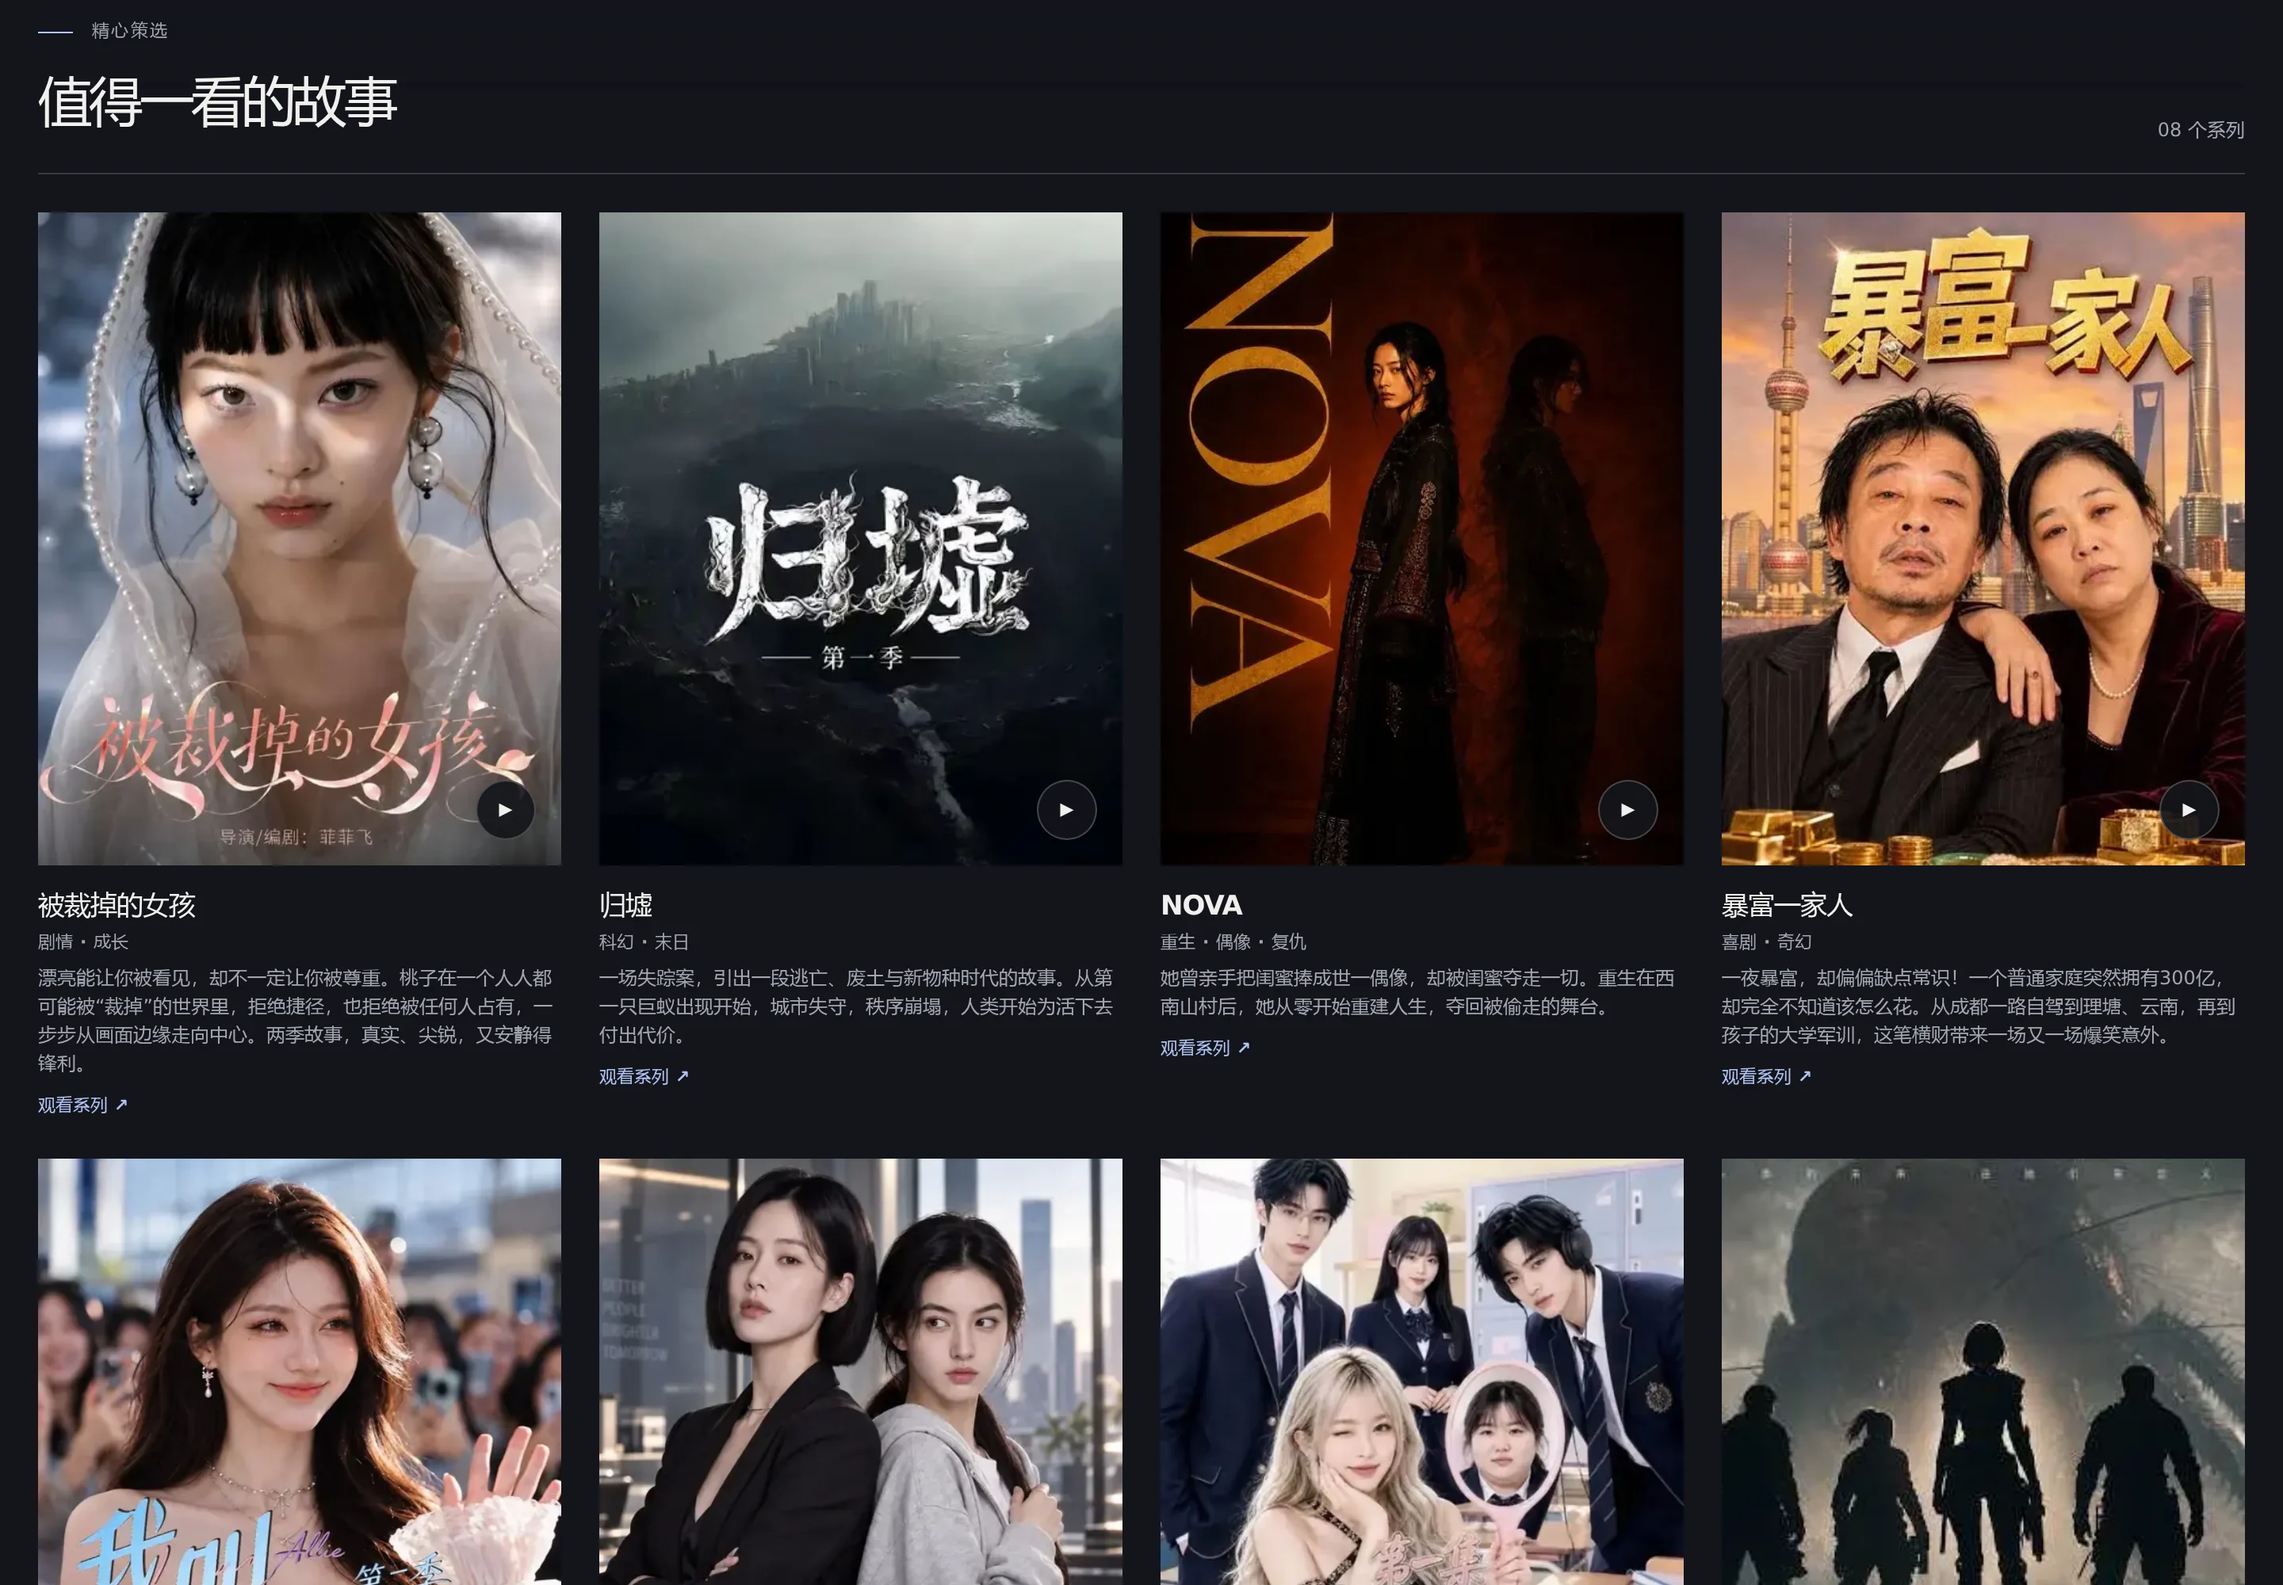
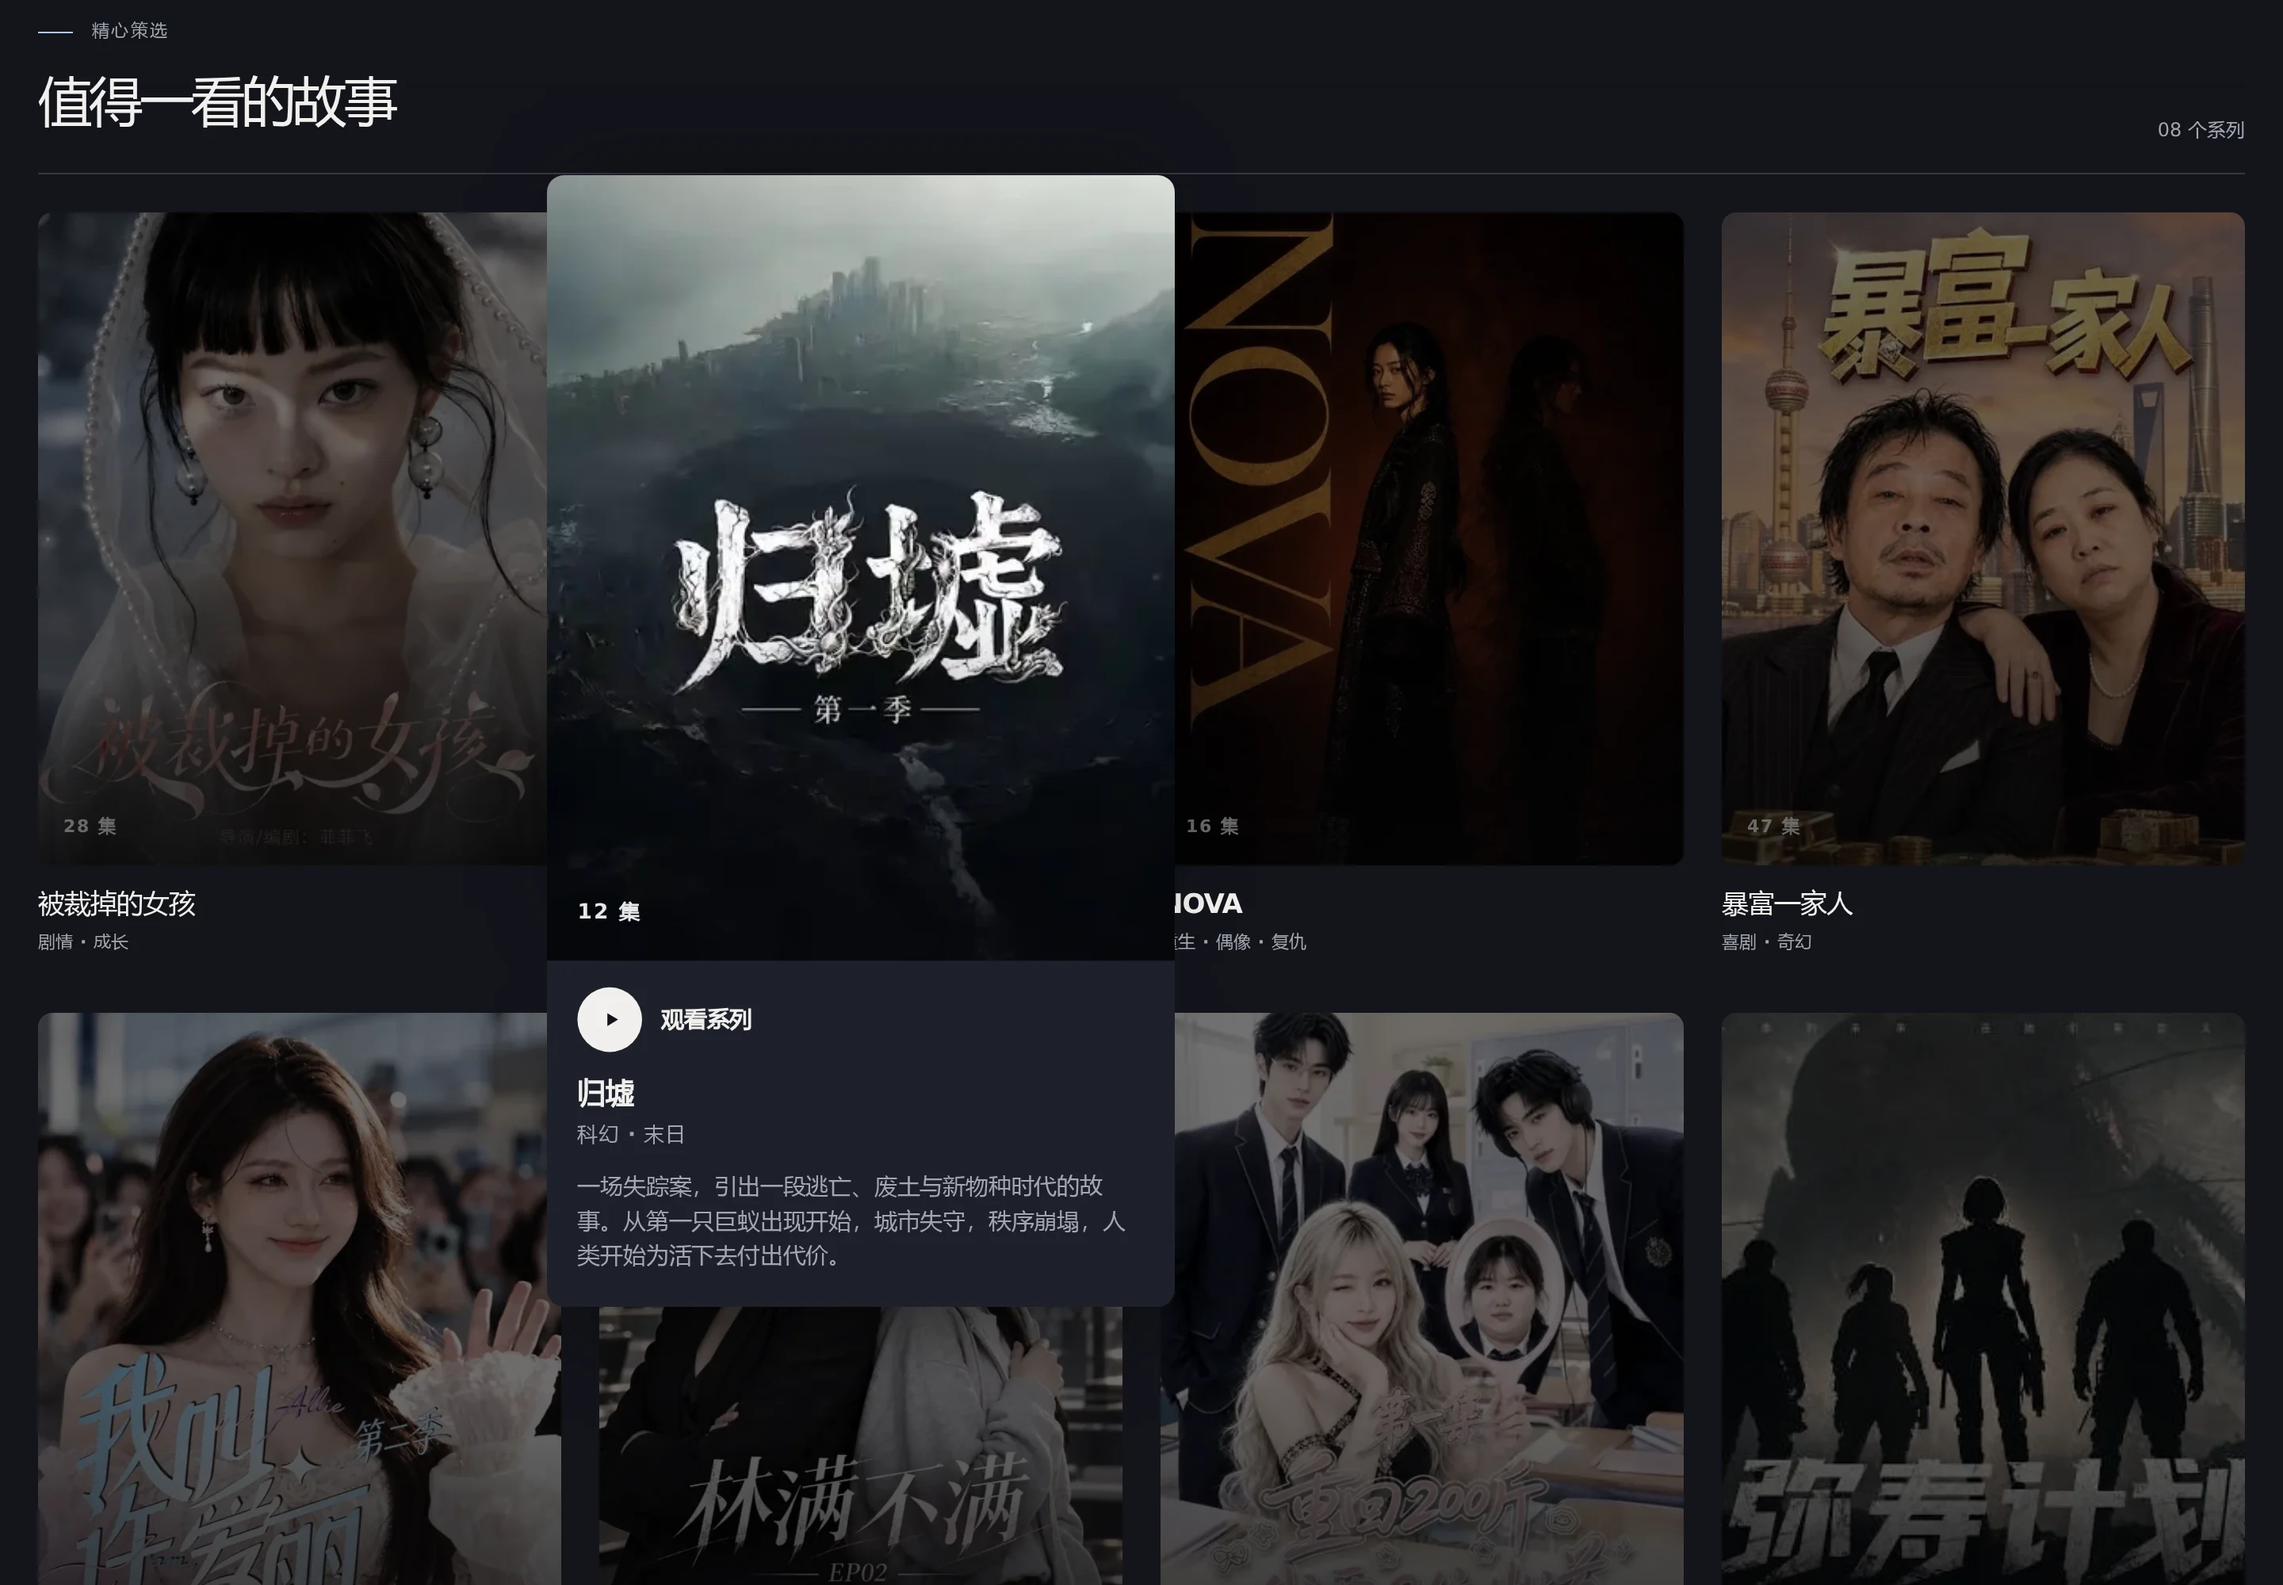
docs(readme): refresh screenshots for the expanding catalogue cards

diff --git a/README.md b/README.md
@@ -37,12 +37,13 @@ Discover a series  →  Open an episode  →  Watch  →  Continue to the next e
 
 ### Discover
 
-A hand-picked catalogue of series rather than unrelated videos. Each card shows
-its artwork, title, genres and a short synopsis, and opens the series at its
-first episode.
+A hand-picked catalogue of series rather than unrelated videos. Cards stay
+lean, with poster, episode count, title and genres. Hover or keyboard focus
+expands a card over the shelf to reveal its synopsis and a play action while
+the rest of the shelf dims. Every card opens its series at the first episode.
 
 <p align="center">
-  <img src="docs/screenshots/catalogue-desktop-en.webp" alt="Catalogue grid of series cards with poster artwork, genres and synopses" width="900">
+  <img src="docs/screenshots/catalogue-desktop-en.webp" alt="Catalogue grid of series posters, with one card expanded to show its genres, synopsis and a Watch series action while the other posters dim" width="900">
 </p>
 
 ### Watch
@@ -57,16 +58,19 @@ so it is always obvious where you go next.
 
 ### Made for your phone
 
-Mobile is designed rather than shrunk: the player comes first, then the episode
+Mobile is designed rather than shrunk: the catalogue becomes a two-column
+poster grid, and on the watch page the player comes first, then the episode
 details, a full-width **Next episode** button, and a numbered episode grid.
 
 <table>
   <tr>
-    <td align="center" width="50%"><img src="docs/screenshots/home-mobile-en.webp" alt="Mobile homepage with the featured series hero" width="300"></td>
-    <td align="center" width="50%"><img src="docs/screenshots/episode-mobile-en.webp" alt="Mobile episode page with player, details, next and previous buttons, and numbered episode grid" width="300"></td>
+    <td align="center" width="33%"><img src="docs/screenshots/home-mobile-en.webp" alt="Mobile homepage with the featured series hero" width="260"></td>
+    <td align="center" width="33%"><img src="docs/screenshots/catalogue-mobile-en.webp" alt="Mobile catalogue with a two-column grid of series posters, episode counts, titles and genres" width="260"></td>
+    <td align="center" width="33%"><img src="docs/screenshots/episode-mobile-en.webp" alt="Mobile episode page with player, details, next and previous buttons, and numbered episode grid" width="260"></td>
   </tr>
   <tr>
     <td align="center"><sub>Featured series</sub></td>
+    <td align="center"><sub>Two-column poster grid</sub></td>
     <td align="center"><sub>Player first, then what comes next</sub></td>
   </tr>
 </table>
@@ -108,6 +112,8 @@ translated UI chrome.
 
 - A curated catalogue of **series**, with designed fallback artwork when a
   series has no configured thumbnail
+- Catalogue cards that expand on hover or keyboard focus to show details,
+  with reduced-motion support
 - Seasons, specials, split episodes and compilations, numbered automatically
 - Shareable, episode-specific URLs such as `/en/series/gui-xu/episode/2`
 - Official Douyin iframe playback, sized responsively for portrait video
